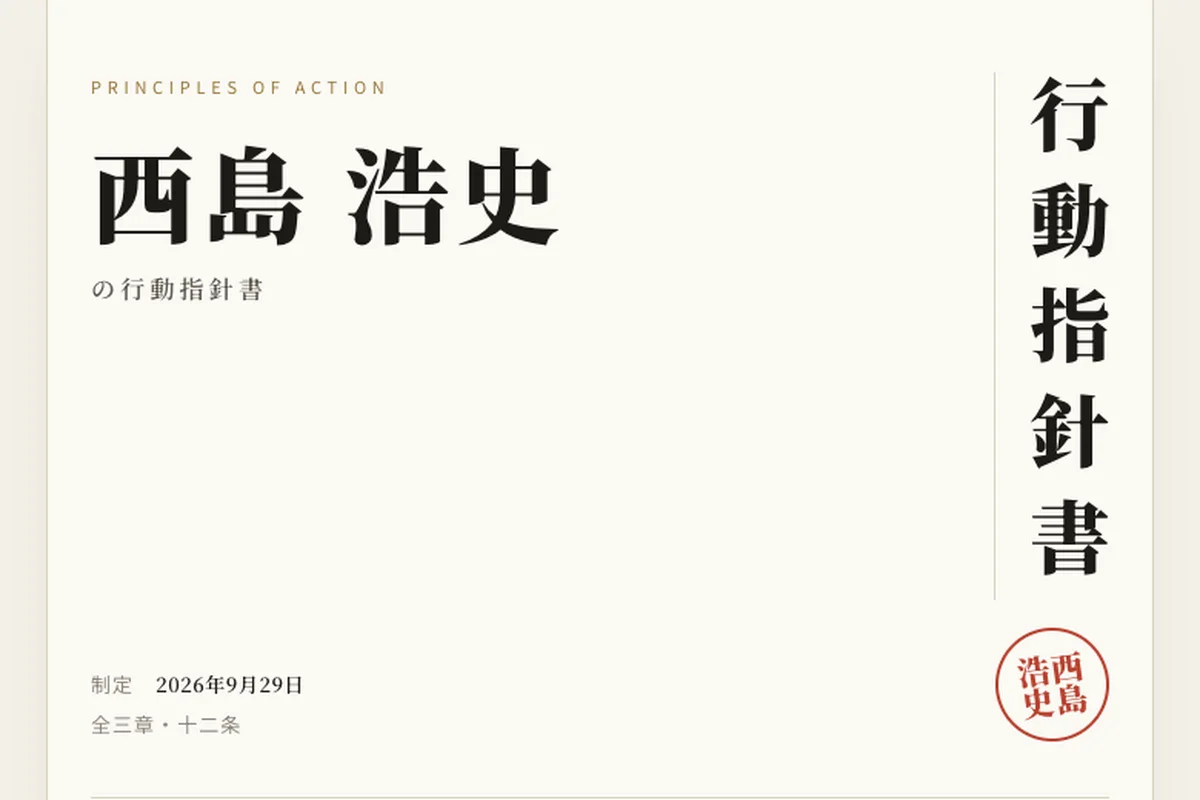
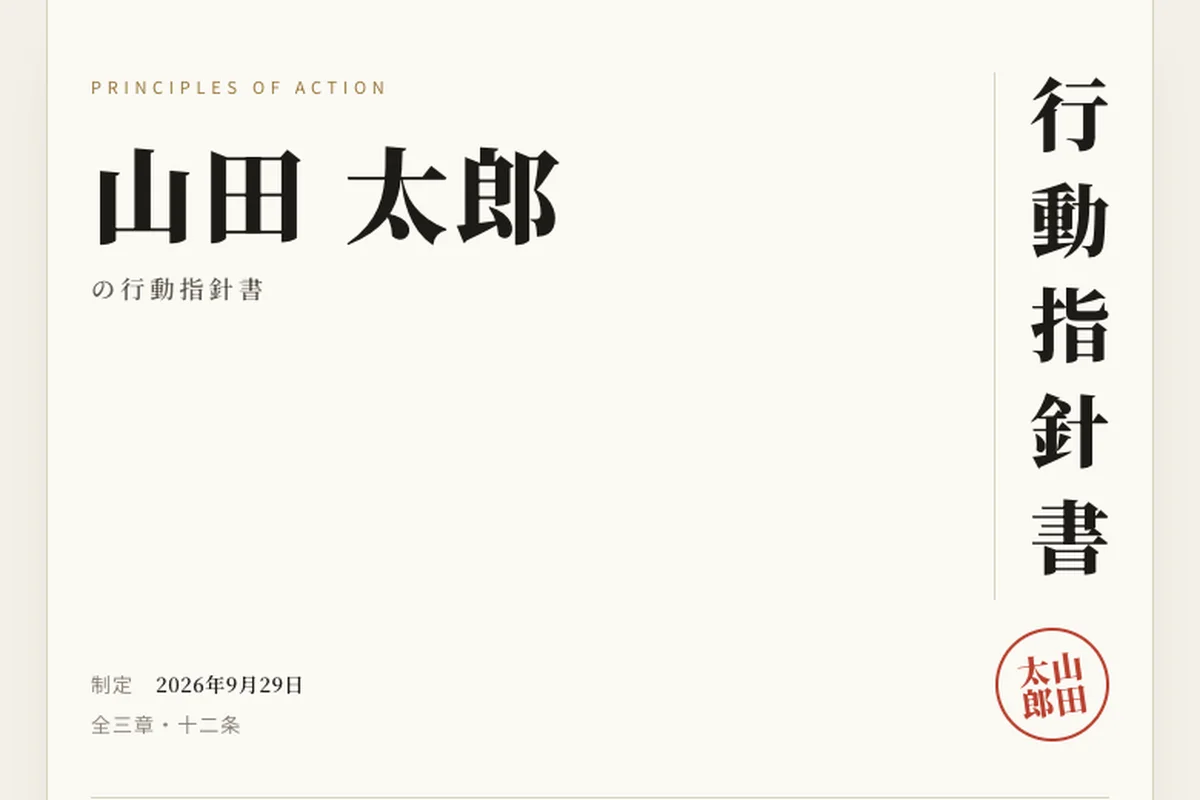
固有名詞を外す：実績10を「企業ホームページ」に、画像名をcorp-siteに、行動指針のサムネイルを見本名（山田 太郎）に
Claude-Session: https://claude.ai/code/session_01Jrurs8PuUgwNBggdAqU6uF

Changed region(s): [[0.2775, 0.1562, 0.4625, 0.3125], [0.0617, 0.1875, 0.2467, 0.3125], [0.8325, 0.8125, 0.925, 0.9062]]

diff --git a/index.html b/index.html
@@ -287,8 +287,8 @@ html.reduce *{animation:none!important;transition:none!important}
         <div class="acts"><a class="act" href="https://hiroshift.github.io/ukehi/" target="_blank" rel="noopener">アプリを開く</a><button type="button" class="act ghost" data-detail>詳細</button></div></div>
       </article>
       <article class="card wide" data-url="http://nakamachi-print.jp/" data-desc="印刷会社のホームページ。">
-        <div class="img"><img src="assets/img/nakamachi.webp" width="600" height="400" alt="中町印刷 公式サイトのトップ画面" loading="lazy"><span class="st">Live</span></div>
-        <div class="in"><span class="idx">10</span><h3>中町印刷 公式サイト</h3><p>印刷会社のホームページ。</p><span class="tags">HTML · CSS · JS · 画像生成AI</span>
+        <div class="img"><img src="assets/img/corp-site.webp" width="600" height="400" alt="企業ホームページのトップ画面" loading="lazy"><span class="st">Live</span></div>
+        <div class="in"><span class="idx">10</span><h3>企業ホームページ</h3><p>印刷会社のホームページ。</p><span class="tags">HTML · CSS · JS · 画像生成AI</span>
         <div class="acts"><a class="act" href="http://nakamachi-print.jp/" target="_blank" rel="noopener">サイトを開く</a><button type="button" class="act ghost" data-detail>詳細</button></div></div>
       </article>
     </div>
